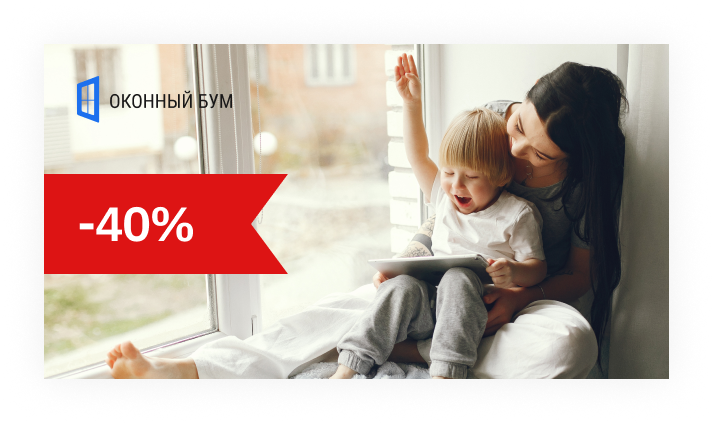
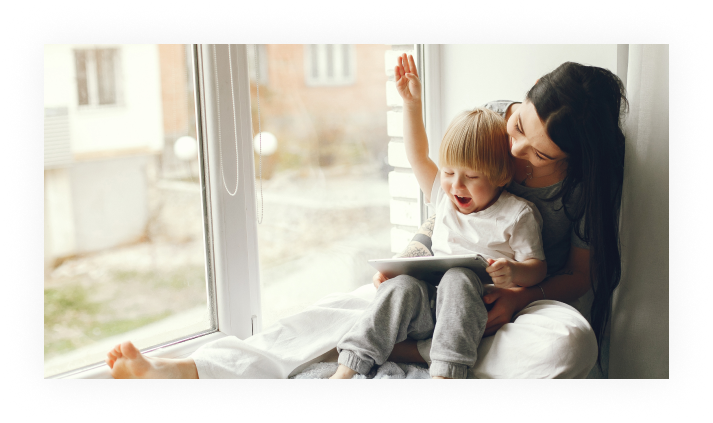
Закончил переключение между профилями, поправил блок Акции и скидки сделал все не картинкой, а заменяемыми элементами

Changed region(s): [[0.0617, 0.3995, 0.4011, 0.6454], [0.0926, 0.1844, 0.3394, 0.3073]]

diff --git a/index.html b/index.html
@@ -67,8 +67,16 @@
         <div class="blue_underline"></div>
 <!--    </div>-->
     <div class="sales-cards">
-        <img class="sales-card" src="images/sales_cards/sale.png">
+        <div class="sales-card" style="background-image: url(images/sales_cards/sale.png)">
+            <img class="logo" src="images/logo.png">
+            <div class="red-tape">
+                <img src="images/sales_cards/red_tape.png">
+            </div>
+            <p class="sales-card-discount">-40%</p>
+        </div>
         <div class="sales-card" style="background-image: url(images/sales_cards/sale_2.png)">
+            <img class="logo" src="images/logo.png">
+            <p class="sales-card-title">Качественные пластиковые окна</p>
             <div class="sales-card-button">Оставить заявку</div>
         </div>
     </div>
@@ -76,7 +84,24 @@
     <div class="left-sidebar-text">
         Компания «Оконный Бум» помогает клиентам подбирать лучшие решения, учитывая пожелания к характеристикам окна и его стоимости. Окно — это объект, которым Вы будете пользоваться много лет, поэтому для нас очень важно, чтобы Вы сделали правильный выбор.
     </div>
-    <img class="right-sidebar-images" src="images/sales_cards/guarantee.png">
+        <div class="advantages-wrapper">
+            <div class="advantage-item">
+            <img src="images/advantages_icons/guarantee_1.png">
+                <p>Гарантия окна</p>
+            </div>
+            <div class="advantage-item">
+                <img src="images/advantages_icons/guarantee_1.png">
+                <p>Гарантия окна</p>
+            </div>
+            <div class="advantage-item">
+                <img src="images/advantages_icons/guarantee_1.png">
+                <p>Гарантия окна</p>
+            </div>
+            <div class="advantage-item" >
+                <img src="images/advantages_icons/guarantee_1.png">
+                <p>Гарантия окна</p>
+            </div>
+        </div>
 
 </div>
 </div>
@@ -85,15 +110,49 @@
     <p class="profile-systems-title">Профильные системы</p>
     <div class="blue_underline"></div>
     <div class="profile-logos">
-        <img src="images/profile_systems/rehau-logo.png">
-        <img src="images/profile_systems/wds-logo.png">
-        <img src="images/profile_systems/salamander-logo.png">
-        <img src="images/profile_systems/veka-logo.png">
+        <img src="images/profile_systems/rehau-logo.png" class="active-logo" id="one">
+        <img src="images/profile_systems/wds-logo.png" class="passive-logo" id ="two">
+        <img src="images/profile_systems/salamander-logo.png" class="passive-logo" id ="three">
+        <img src="images/profile_systems/veka-logo.png" class="passive-logo" id="four">
+
     </div>
     <div class="profile-card">
-        <img class="profile-image">
+        <div  class="profile-image-wrapper">
+        <img class="profile-image" src="images/profile_systems/rehau-profile.png">
+        </div>
         <div class="profile-info">
-            <p class="profile-name">Название товара</p>
+            <p class="profile-name">Rehau profile</p>
+            <p class="profile-description">
+                Lorem ipsum dolor sit amet, consectetur adipiscing elit, sed do eiusmod tempor incididunt ut labore et dolore magna aliqua. Ut enim ad minim veniam, quis nostrud exercitation ullamco laboris nisi ut aliquip ex ea commodo consequat. Duis aute irure dolor in reprehenderit in voluptate velit esse cillum dolore eu fugiat nulla pariatur.
+            </p>
+            <div class="profile-button">Оставить заявку</div>
+        </div>
+    </div>
+
+    <div class="profile-card">
+        <img class="profile-image" src="images/profile_systems/wds-profile.png">
+        <div class="profile-info">
+            <p class="profile-name">WDS profile</p>
+            <p class="profile-description">
+                Lorem ipsum dolor sit amet, consectetur adipiscing elit, sed do eiusmod tempor incididunt ut labore et dolore magna aliqua. Ut enim ad minim veniam, quis nostrud exercitation ullamco laboris nisi ut aliquip ex ea commodo consequat. Duis aute irure dolor in reprehenderit in voluptate velit esse cillum dolore eu fugiat nulla pariatur.
+            </p>
+            <div class="profile-button">Оставить заявку</div>
+        </div>
+    </div>
+    <div class="profile-card">
+        <img class="profile-image" src="images/profile_systems/salamander-profile.png">
+        <div class="profile-info">
+            <p class="profile-name">Salamander profile</p>
+            <p class="profile-description">
+                Lorem ipsum dolor sit amet, consectetur adipiscing elit, sed do eiusmod tempor incididunt ut labore et dolore magna aliqua. Ut enim ad minim veniam, quis nostrud exercitation ullamco laboris nisi ut aliquip ex ea commodo consequat. Duis aute irure dolor in reprehenderit in voluptate velit esse cillum dolore eu fugiat nulla pariatur.
+            </p>
+            <div class="profile-button">Оставить заявку</div>
+        </div>
+    </div>
+    <div class="profile-card">
+        <img class="profile-image" src="images/profile_systems/veka-profile.png">
+        <div class="profile-info">
+            <p class="profile-name">Veka profile</p>
             <p class="profile-description">
                 Lorem ipsum dolor sit amet, consectetur adipiscing elit, sed do eiusmod tempor incididunt ut labore et dolore magna aliqua. Ut enim ad minim veniam, quis nostrud exercitation ullamco laboris nisi ut aliquip ex ea commodo consequat. Duis aute irure dolor in reprehenderit in voluptate velit esse cillum dolore eu fugiat nulla pariatur.
             </p>
@@ -233,5 +292,6 @@
 
 <script src="scripts/header.js"></script>
 <script src="scripts/header_slider.js"></script>
+<script src="scripts/profile_systems.js"></script>
 </body>
 </html>

diff --git a/css/style.css b/css/style.css
@@ -106,7 +106,7 @@ header{
     position: relative;
     background-repeat: no-repeat;
     background-position: center;
-    background-attachment: fixed;
+    /*background-attachment: fixed;*/
     background-size: cover;
 }
 .banner_wrapper:before {
@@ -181,18 +181,52 @@ header{
     width: 1280px;
     display: flex;
     justify-content: space-between;
+    margin-top: 30px;
 }
 .sales-card{
+    display: flex;
+    /*justify-content: flex-start;*/
     width: 50%;
-    /*height: 335px;*/
-
+    height: 335px;
+    color: white;
     background-repeat: no-repeat;
     background-position: center;
     /*background-attachment: fixed;*/
     background-size: cover;
     flex-direction: column;
     position: relative;
+
 }
+.sales-card .logo{
+    width: 155px;
+    height: 47px;
+    position: absolute;
+    top: 40px;
+    left: 70px;
+}
+.sales-card .red-tape img{
+    width: 244px;
+    height: 100px;
+    position: absolute;
+    top: 120px;
+    left: 40px;
+}
+.sales-card-discount{
+    position: absolute;
+    top: 120px;
+    left: 80px;
+    font-size: 2.6rem;
+    letter-spacing: 2.5px;
+}
+.sales-card-title{
+    text-align: left;
+    width: 50%;
+    position: absolute;
+    position: absolute;
+    top: 90px;
+    left: 70px;
+}
+
 .sales-card-button {
     position: absolute;
     bottom: 60px;
@@ -209,19 +243,38 @@ header{
     width: 100%;
     justify-content: space-between;
     align-items: center;
-    /*height: 600px;*/
 }
 .left-sidebar-text{
     width: 45%;
     text-align: left;
     font-size: 1.2rem;
 }
-.right-sidebar-images{
-    width: 45%;
-}
+
 .profile-description{
     font-size: 1.2rem;
 }
+.advantages-wrapper{
+    width: 50%;
+    margin-top: 40px;
+    display: flex;
+    flex-wrap: wrap;
+    justify-content: space-between;
+}
+.advantage-item{
+    width: 45%;
+    margin-top: 15px;
+    margin-bottom: 15px;
+}
+.advantage-item img{
+    width: 80px;
+    height: 80px;
+}
+.advantages-wrapper p{
+    font-size: 1rem;
+    font-weight: 500;
+}
+
+
 
 .profile-systems-wrapper{
     width: 1200px;
@@ -231,6 +284,7 @@ header{
     margin-top: 100px;
     justify-content: center;
     align-items: center;
+    transition: 1s;
 }
 .profile-systems-title{
     font-size: 2rem;
@@ -249,6 +303,7 @@ header{
     padding-top: 15px;
     padding-bottom: 15px;
     border-bottom: 1.5px solid #1C70EE;
+    cursor: pointer;
 }
 
 .profile-button{
@@ -260,7 +315,45 @@ header{
     color: white;
     font-size: .9rem;
 }
+.profile-card{
+    width: 1000px;
+    display: none;
+    justify-content: space-between;
+    margin-top: 60px;
+    min-height: 350px;
+    align-items: center;
 
+}
+.profile-wrapper{
+    width: 32%;
+    height: 100%;
+}
+.profile-image{
+    width: 250px;
+    height: 300px;
+}
+.profile-info{
+    width: 65%;
+}
+.profile-name{
+    font-size: 1.2rem;
+    font-weight: bold;
+
+}
+.profile-logos img:hover{
+    opacity: 1;
+}
+.passive-logo{
+    opacity: .35    ;
+}
+.active-logo{
+    opacity: 1;
+}
+
+
+
+
+/* DIMAAA */
 .feedback{
     width: 100%;
     margin-top: 125px;

diff --git a/scripts/profile_systems.js b/scripts/profile_systems.js
@@ -1,0 +1,52 @@
+let profile_card = document.querySelectorAll('.profile-card');
+let profile_logos = $('.profile-logos img');
+console.log(profile_card);
+profile_card[0].style.display = 'flex';
+
+$('.profile-logos img').click((e)=>{
+    if(e.target.id === 'one'){
+        profile_card[0].style.display = 'flex';
+        profile_card[1].style.display = 'none';
+        profile_card[2].style.display = 'none';
+        profile_card[3].style.display = 'none';
+
+        for (let i = 0; i < profile_logos.length; i++){
+            profile_logos[i].className = 'passive-logo';
+        }
+        profile_logos[0].className='active-logo';
+    }
+    if(e.target.id === 'two'){
+        profile_card[0].style.display = 'none';
+        profile_card[1].style.display = 'flex';
+        profile_card[2].style.display = 'none';
+        profile_card[3].style.display = 'none';
+        for (let i = 0; i < profile_logos.length; i++){
+            profile_logos[i].className = 'passive-logo';
+        }
+        profile_logos[1].className='active-logo';
+    }
+    if(e.target.id === 'three'){
+        profile_card[0].style.display = 'none';
+        profile_card[1].style.display = 'none';
+        profile_card[2].style.display = 'flex';
+        profile_card[3].style.display = 'none';
+        for (let i = 0; i < profile_logos.length; i++){
+            profile_logos[i].className = 'passive-logo';
+        }
+        profile_logos[2].className='active-logo';
+    }
+    if(e.target.id === 'four'){
+        profile_card[0].style.display = 'none';
+        profile_card[1].style.display = 'none';
+        profile_card[2].style.display = 'none';
+        profile_card[3].style.display = 'flex';
+        for (let i = 0; i < profile_logos.length; i++){
+            profile_logos[i].className = 'passive-logo';
+        }
+        profile_logos[3].className='active-logo';
+    }
+});
+
+function show_profile() {
+
+}
